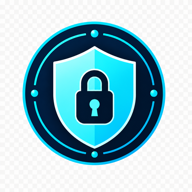
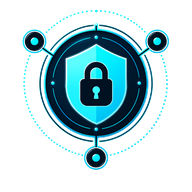
Branded "Triskele Vault" lockup, transparent on dark
You added a new horizontal lockup (icon + "Triskele Vault" wordmark) and an
updated icon mark. Both arrived from ChatGPT as flat RGB PNGs with a white
background, which is why the previous favicon and header lockup were sitting
in a white square against the void.

This pass:

Alpha extraction
- scripts/dewhite.py uses pure PIL (no numpy) to threshold pixels by "whiteness"
  = min(R,G,B), with a soft band so antialiased edges keep their feather instead
  of producing a hard halo. Regenerated every icon-*.png, apple-icon.png, and
  src/app/icon.png with proper RGBA — corner pixels are now (0,0,0,0) instead
  of (251,252,252).

Wordmark recoloring
- The lockup ships dark navy text designed for "ON LIGHT" use. For the dark
  site I detect grayscale-and-dark pixels (chroma < 30, luma < 90) and remap
  them toward brand white (#F4F7FA), preserving alpha. The colorful icon
  pixels (cipher blue ring + shield) are untouched.

Components
- New <BrandLockup/> component renders /lockup-512.png at sm/md/lg row heights
  matching the source's 3:1 aspect ratio.
- Landing header, app shell top bar, and auth chrome now use <BrandLockup/>
  instead of <BrandMark/> + a separate "Triskele" text span. The footer keeps
  <BrandMark/> because the surrounding line already has the brand name.

Assets
- Source ChatGPT PNGs cleaned up after extraction.
- /logo-mark.png is now the icon at 1024px (square works better as a social
  preview than the 3:1 lockup).
[…]

diff --git a/src/components/brand-mark.tsx b/src/components/brand-mark.tsx
@@ -1,7 +1,7 @@
 import Image from "next/image";
 
-const SIZES = {
-  sm: 24, // inline footer / tight chrome
+const ICON_SIZES = {
+  sm: 24, // tight footer chrome
   md: 32, // top bar
   lg: 40, // marketing header
 } as const;
@@ -11,16 +11,53 @@ export function BrandMark({
   className = "",
   alt = "Triskele",
 }: {
-  size?: keyof typeof SIZES;
+  size?: keyof typeof ICON_SIZES;
   className?: string;
   alt?: string;
 }) {
-  const px = SIZES[size];
+  const px = ICON_SIZES[size];
   return (
     <Image
       src="/icon-96.png"
       width={px}
       height={px}
+      alt={alt}
+      className={className}
+      priority
+    />
+  );
+}
+
+const LOCKUP_HEIGHTS = {
+  sm: 28, // top bar mobile
+  md: 36, // top bar desktop
+  lg: 48, // marketing header desktop
+} as const;
+
+// Source aspect ratio: 2172 × 724 → width = height * 3.
+const LOCKUP_RATIO = 3;
+
+/**
+ * Horizontal "icon + Triskele Vault" wordmark lockup. Use this anywhere the
+ * brand name would otherwise be set as type next to the mark, so spacing
+ * and tracking stay consistent with the brand sheet.
+ */
+export function BrandLockup({
+  size = "md",
+  className = "",
+  alt = "Triskele Vault",
+}: {
+  size?: keyof typeof LOCKUP_HEIGHTS;
+  className?: string;
+  alt?: string;
+}) {
+  const h = LOCKUP_HEIGHTS[size];
+  const w = Math.round(h * LOCKUP_RATIO);
+  return (
+    <Image
+      src="/lockup-512.png"
+      width={w}
+      height={h}
       alt={alt}
       className={className}
       priority

diff --git a/src/components/shell.tsx b/src/components/shell.tsx
@@ -4,7 +4,7 @@ import Link from "next/link";
 import { usePathname } from "next/navigation";
 import { useAuth } from "./auth-provider";
 import { SignedInBadge } from "./auth-gate";
-import { BrandMark } from "./brand-mark";
+import { BrandLockup } from "./brand-mark";
 import { Icon } from "./icon";
 
 const NAV = [
@@ -45,11 +45,8 @@ function TopBar({
     <header className="fixed top-0 left-0 right-0 z-40 h-16 bg-obsidian border-b border-white/10 px-gutter flex items-center">
       <div className="max-w-container-max mx-auto w-full flex items-center justify-between">
         <div className="flex items-center gap-6">
-          <Link href="/app" className="flex items-center gap-3">
-            <BrandMark size="md" />
-            <span className="text-page-title font-display font-semibold tracking-tight">
-              Triskele
-            </span>
+          <Link href="/app" className="flex items-center" aria-label="Triskele Vault — dashboard">
+            <BrandLockup size="md" className="h-8 w-auto" />
           </Link>
           <span className="hidden md:inline-flex chip chip-cipher">
             CLIENT-ENCRYPTED · QUORUM-SEALED

diff --git a/src/app/page.tsx b/src/app/page.tsx
@@ -1,5 +1,5 @@
 import Link from "next/link";
-import { BrandMark } from "@/components/brand-mark";
+import { BrandLockup, BrandMark } from "@/components/brand-mark";
 import { Icon } from "@/components/icon";
 import { TriskeleMark } from "@/components/triskele-mark";
 
@@ -26,11 +26,8 @@ function Header() {
                  bg-void/70 backdrop-blur-md border-b border-white/5"
     >
       <div className="max-w-container-max mx-auto w-full flex items-center justify-between gap-3">
-        <Link href="/" className="flex items-center gap-2.5 min-w-0">
-          <BrandMark size="md" className="shrink-0" />
-          <span className="text-card-title md:text-section-title font-display font-semibold tracking-tight truncate">
-            Triskele
-          </span>
+        <Link href="/" className="flex items-center min-w-0" aria-label="Triskele Vault — home">
+          <BrandLockup size="md" className="h-9 w-auto md:h-10 shrink-0" />
         </Link>
         <nav className="hidden md:flex items-center gap-8 text-small text-mist">
           <a href="#use-cases" className="hover:text-white transition-colors">

diff --git a/src/components/auth-chrome.tsx b/src/components/auth-chrome.tsx
@@ -1,5 +1,5 @@
 import Link from "next/link";
-import { BrandMark } from "./brand-mark";
+import { BrandLockup } from "./brand-mark";
 
 /**
  * Minimal chrome shared by /login and /signup. Keeps a back-to-home link and
@@ -10,11 +10,8 @@ export function AuthChrome({ children }: { children: React.ReactNode }) {
     <div className="min-h-screen flex flex-col bg-void">
       <header className="px-5 sm:px-6 md:px-10 h-16 md:h-20 flex items-center border-b border-white/5">
         <div className="max-w-container-max mx-auto w-full flex items-center justify-between gap-3">
-          <Link href="/" className="flex items-center gap-2.5 min-w-0">
-            <BrandMark size="md" className="shrink-0" />
-            <span className="text-card-title md:text-section-title font-display font-semibold tracking-tight truncate">
-              Triskele
-            </span>
+          <Link href="/" className="flex items-center min-w-0" aria-label="Triskele Vault — home">
+            <BrandLockup size="md" className="h-9 w-auto md:h-10 shrink-0" />
           </Link>
           <Link
             href="/"

diff --git a/scripts/dewhite.py b/scripts/dewhite.py
@@ -1,0 +1,68 @@
+#!/usr/bin/env python3
+"""Strip a white/near-white background from ChatGPT-generated PNGs.
+
+For each pixel we compute "whiteness" = min(R,G,B). Pixels at or above the
+threshold become transparent; pixels well below stay fully opaque. In the
+narrow transition band we map alpha proportionally so antialiased edges
+keep their softness instead of producing a hard halo.
+"""
+
+from __future__ import annotations
+
+import argparse
+import sys
+from pathlib import Path
+
+from PIL import Image
+
+
+def dewhite(src: Path, dst: Path, threshold: int = 240, soft: int = 12) -> None:
+    im = Image.open(src).convert("RGBA")
+    px = im.load()
+    w, h = im.size
+    lo = threshold - soft
+    for y in range(h):
+        for x in range(w):
+            r, g, b, _ = px[x, y]
+            whiteness = min(r, g, b)
+            if whiteness >= threshold:
+                a = 0
+            elif whiteness < lo:
+                a = 255
+            else:
+                # Linear falloff across the soft band.
+                a = max(0, min(255, ((threshold - whiteness) * 255) // soft))
+            px[x, y] = (r, g, b, a)
+    im.save(dst, optimize=True)
+    print(f"  {dst}  {im.size}")
+
+
+def resize_with_alpha(src: Path, dst: Path, max_dim: int) -> None:
+    im = Image.open(src).convert("RGBA")
+    w, h = im.size
+    if max(w, h) > max_dim:
+        scale = max_dim / max(w, h)
+        im = im.resize((int(w * scale), int(h * scale)), Image.LANCZOS)
+    im.save(dst, optimize=True)
+    print(f"  {dst}  {im.size}")
+
+
+def main() -> int:
+    p = argparse.ArgumentParser()
+    p.add_argument("src", type=Path)
+    p.add_argument("--out", type=Path, default=None)
+    p.add_argument("--threshold", type=int, default=240)
+    p.add_argument("--soft", type=int, default=12)
+    args = p.parse_args()
+
+    if not args.src.exists():
+        print(f"missing: {args.src}", file=sys.stderr)
+        return 1
+
+    base = args.out or args.src.with_name(args.src.stem + "-rgba.png")
+    dewhite(args.src, base, threshold=args.threshold, soft=args.soft)
+    return 0
+
+
+if __name__ == "__main__":
+    raise SystemExit(main())
